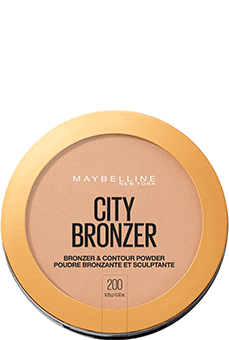
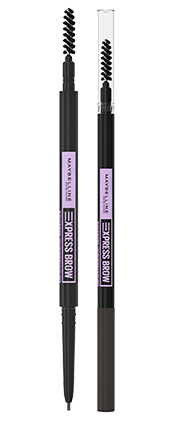
Finish the second cross section

diff --git a/src/index.html b/src/index.html
@@ -206,7 +206,7 @@
             </div>
             <p class="es-cross__name">lash sensational
               SKY HIGH very black</p>
-            <a href="" class="es-cross__link">zobacz produkt</a>
+            <a href="#" class="es-cross__link">zobacz produkt</a>
           </div>
           <div class="es-cross__single">
             <div class="es-cross__packshot2">
@@ -214,7 +214,7 @@
             </div>
             <p class="es-cross__name">lash sensational
               SKY HIGH cosmic black</p>
-            <a href="" class="es-cross__link">zobacz produkt</a>
+            <a href="#" class="es-cross__link">zobacz produkt</a>
           </div>
           <div class="es-cross__single">
             <div class="es-cross__packshot2">
@@ -222,7 +222,7 @@
             </div>
             <p class="es-cross__name">lash sensational
               SKY HIGH waterproof</p>
-            <a href="" class="es-cross__link">zobacz produkt</a>
+            <a href="#" class="es-cross__link">zobacz produkt</a>
           </div>
           <div class="es-cross__single">
             <div class="es-cross__packshot2">
@@ -230,7 +230,7 @@
             </div>
             <p class="es-cross__name">lash sensational
               SKY HIGH brown</p>
-            <a href="" class="es-cross__link">zobacz produkt</a>
+            <a href="#" class="es-cross__link">zobacz produkt</a>
           </div>
           <div class="es-cross__single">
             <div class="es-cross__packshot2">
@@ -238,7 +238,7 @@
             </div>
             <p class="es-cross__name">lash sensational
 SKY HIGH primer</p>
-            <a href="" class="es-cross__link">zobacz produkt</a>
+            <a href="#" class="es-cross__link">zobacz produkt</a>
           </div>
         </div>
         <div class="es-cross__container">
@@ -247,28 +247,28 @@ SKY HIGH primer</p>
               <img src="./images/cross-6.png" alt="" class="es-cross__img">
             </div>
             <p class="es-cross__name es-cross__name--wide">lash sensational INTENSE BLACK</p>
-            <a href="" class="es-cross__link">zobacz produkt</a>
+            <a href="#" class="es-cross__link">zobacz produkt</a>
           </div>
           <div class="es-cross__single es-cross__single--wide">
             <div class="es-cross__packshot2">
               <img src="./images/cross-7.png" alt="" class="es-cross__img">
             </div>
             <p class="es-cross__name es-cross__name--wide">lash sensational very blACK</p>
-            <a href="" class="es-cross__link">zobacz produkt</a>
+            <a href="#" class="es-cross__link">zobacz produkt</a>
           </div>
           <div class="es-cross__single es-cross__single--wide">
             <div class="es-cross__packshot2">
               <img src="./images/cross-8.png" alt="" class="es-cross__img">
             </div>
             <p class="es-cross__name es-cross__name--wide">lash sensational waterproof</p>
-            <a href="" class="es-cross__link">zobacz produkt</a>
+            <a href="#" class="es-cross__link">zobacz produkt</a>
           </div>
           <div class="es-cross__single es-cross__single--wide">
             <div class="es-cross__packshot2">
               <img src="./images/cross-9.png" alt="" class="es-cross__img">
             </div>
             <p class="es-cross__name es-cross__name--wide">lash sensational burgundy brown</p>
-            <a href="" class="es-cross__link">zobacz produkt</a>
+            <a href="#" class="es-cross__link">zobacz produkt</a>
           </div>
         </div>
       </div>
@@ -282,35 +282,34 @@ SKY HIGH primer</p>
             <div class="es-cross2__packshot">
               <img src="images/cross-2-1.png" alt="" class="es-cross2__img">
             </div>
-            <p class="es-cross2__name">TUSZ DO RZĘS FALSIES SURREAL</p>
+            <p class="es-cross2__name">SZMINKA SUPERSTAY VINYL INK</p>
             <p class="es-cross2__desc">
-              Długotrwały tusz nie pozostawiający grudek, odporny na
-              rozmazywanie, kruszenie się oraz blaknięcie aż do 24H<sup>5</sup>.
+              Płynna szminka, która zapewnia długotrwały połysk, niczym lakier do&nbsp;ust.
             </p>
-            <a href="" class="es-cross2__link">zobacz produkt</a>
+            <a href="#" class="es-cross2__link">zobacz produkt</a>
           </div>
           <div class="es-cross2__single">
             <div class="es-cross2__packshot">
               <img src="images/cross-2-2.png" alt="" class="es-cross2__img">
             </div>
-            <p class="es-cross2__name">róż fit me</p>
+            <p class="es-cross2__name">SUPER STAY 24H SKIN TINT</p>
             <p class="es-cross2__desc">
-              Fit Me Blush to lekki róż o długotrwałej formule, który sprawia,
-              że twarz wygląda promiennie przez cały dzień.
+              Podkład dopasowujący się&nbsp;do&nbsp;koloru Twojej skóry, 24h<sup>3</sup> efekt oraz witamina&nbsp;C, która pomaga rozświetlić Twoją skórę.
             </p>
-            <a href="" class="es-cross2__link">zobacz produkt</a>
+            <a href="#" class="es-cross2__link">zobacz produkt</a>
           </div>
 
           <div class="es-cross2__single">
             <div class="es-cross2__packshot">
               <img src="images/cross-2-3.png" alt="" class="es-cross2__img">
             </div>
-            <p class="es-cross2__name">city bronzer</p>
+            <p class="es-cross2__name">KREDKA DO BRWI EXPRESS BROW ULTRA SLIM </p>
             <p class="es-cross2__desc">
-              Puder brązujący nadaje efekt skóry muśniętej słońcem i delikatnie
-              konturuje twarz.
+              Precyzyjna kredka ze szczoteczką, pozwalająca uzyskać naturalny
+efekt wypełnionych brwi.
+Prosta i&nbsp;ekspresowa aplikacja!
             </p>
-            <a href="" class="es-cross2__link">zobacz produkt</a>
+            <a href="#" class="es-cross2__link">zobacz produkt</a>
           </div>
         </div>
       </div>
